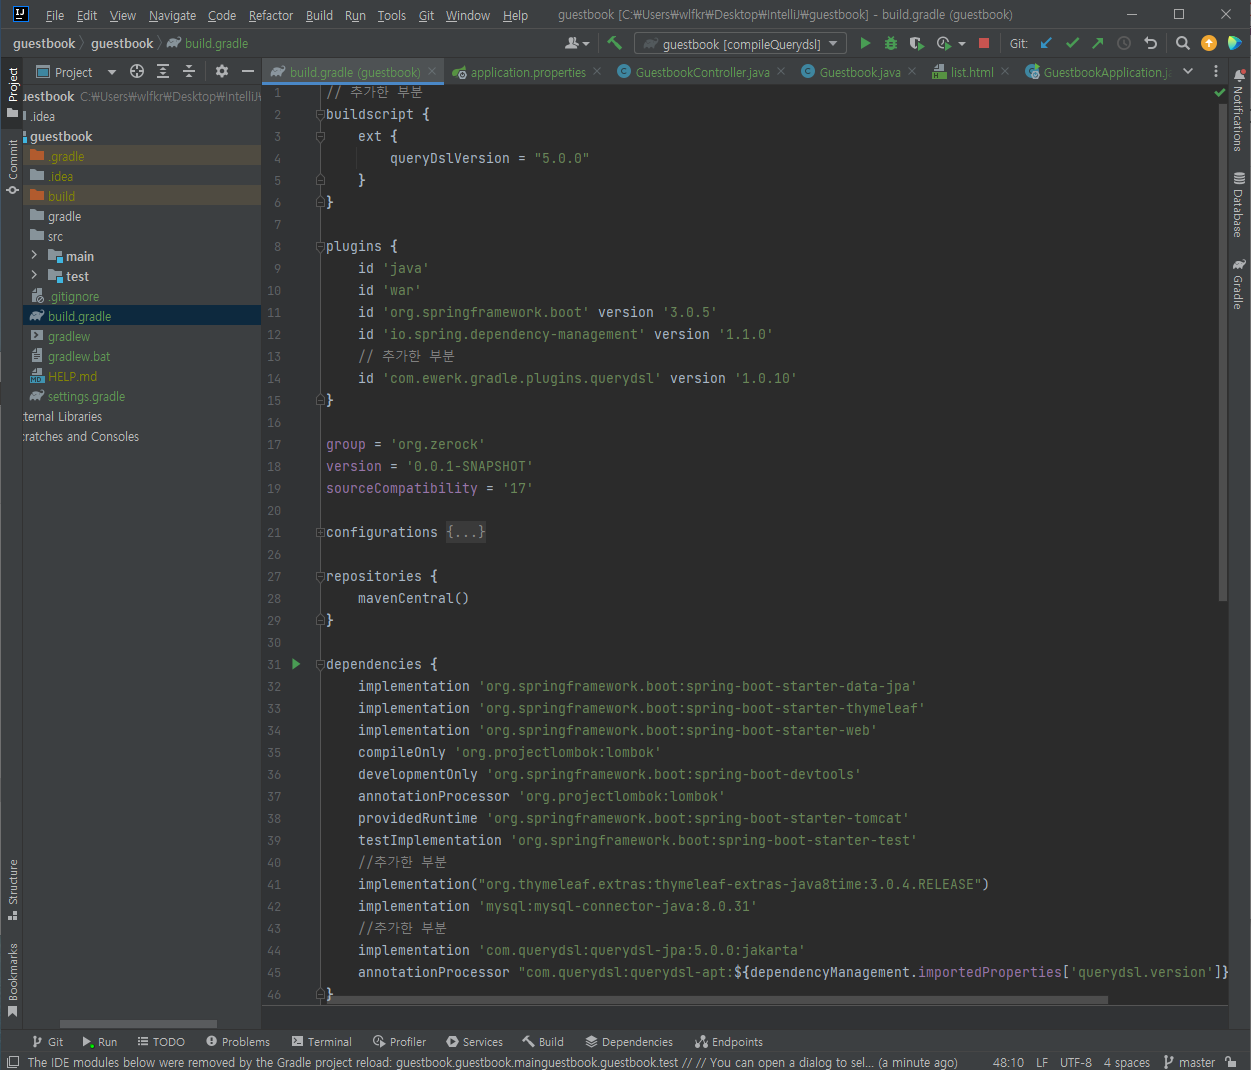
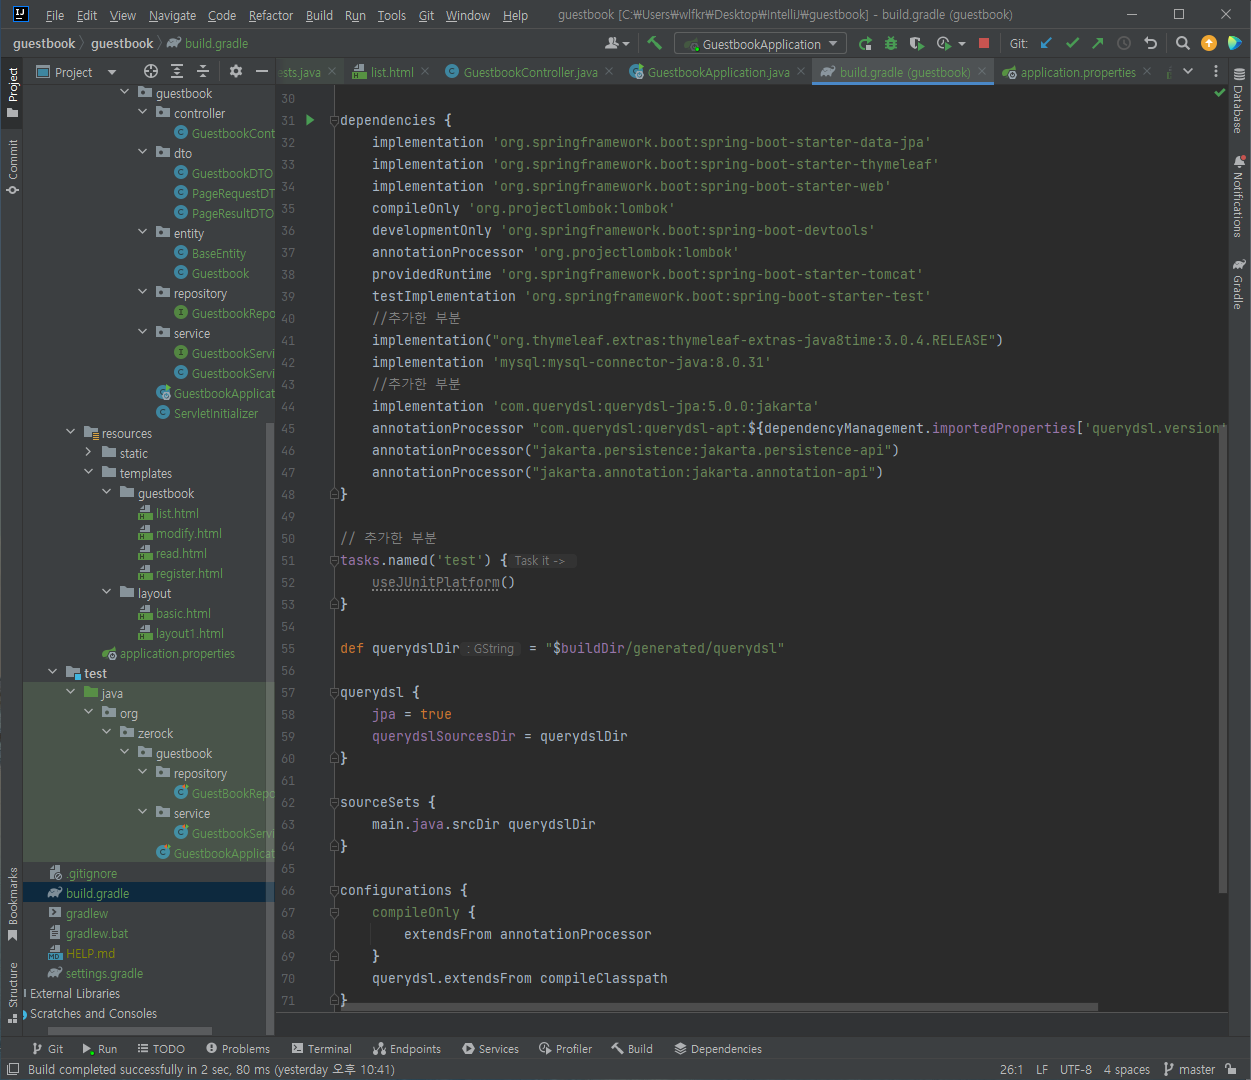
스프링 게시글 수정

diff --git a/_posts/study/spring/2023-03-21-[Spring]_동적_쿼리_처리를_위한_Querydsl_설정.md b/_posts/study/spring/2023-03-21-[Spring]_동적_쿼리_처리를_위한_Querydsl_설정.md
@@ -16,76 +16,69 @@ image:
 * this unordered seed list will be replaced by the toc
 {:toc}
 <br>
-Thymeleaf의 레이아웃은 JSP의 include와 같이 특정 부분을 외부, 내부에서 가져와 포함하는 형태와 특정한 부분을 파라미터로 전달해 내용에 포함하는 형태로 두 가지의 방식이 존재합니다. 먼저 include 형태부터 살펴보겠습니다.
+JPA의 쿼리 메소드 기능과 @Query를 통해 많은 기능을 구현할 수 있지만, 선언할 때 고정된 형태의 값을 가진다는 단점이 존재합니다. 이 때문에 복잡한 조합을 이용하는 경우 동적으로 쿼리를 생성해서 처리할 수 있는 기능이 필요합니다.<br>
+Querydsl은 이러한 상황을 해결할 수 있는 기술입니다.
 
 ---
 <br>
 
-# 1. SampleController 코드 추가 (include 방식)
+# 1. Querydls 사이트
 ---
 <br>
 
 ![1](/assets/img/study_Web/spring/2023-03-21-[Spring]_동적_쿼리_처리를_위한_Querydsl_설정/1.PNG)
 <br>
 
-실습을 위해 SampleController에 위의 그림과 같은 exLayout1()을 추가합니다.<br>
+Querydsl은 다양한 기능을 제공하는데 우리는 이 중 JPA 관련 부분을 적용하려 합니다.<br>
 
-# 2. fragment1.html 작성
+# 2. build.gradle 추가 - 1
 ---
 <br>
 
 ![2](/assets/img/study_Web/spring/2023-03-21-[Spring]_동적_쿼리_처리를_위한_Querydsl_설정/2.PNG)
 <br>
 
-이번에 구현하고자 하는 exLayout.html은 내부적으로 다른 파일에 있는 일부분을 조각처럼 가져와 구성합니다. 이러한 조각이 될 수 있는 fragments 폴더를 작성하고 조각이 될 fragment1.html을 생성한 뒤 위와 같은 내용을 작성합니다.<br>
-th:fragment라는 태그를 통해 표현합니다.<br>
+위의 그림과 같이 주석처리한 부분을 추가로 작성합니다.<br>
+queryDslVersion을 지정해주고 plugins 항목에 querydsl 관련 부분을 추가합니다.
 
-# 3. exLayout1.html 작성
+# 3. build.gradle 추가 - 2
 ---
 <br>
 
 ![3](/assets/img/study_Web/spring/2023-03-21-[Spring]_동적_쿼리_처리를_위한_Querydsl_설정/3.PNG)
 <br>
 
-이제 화면이 될 exLayout1.html을 추가한 뒤 fragment1.html의 조각들을 가져와 사용하는 코드를 작성합니다.<br>
-th:replace, th:insert, th:bolck th:replace를 사용해 fragment1의 조각을 각각 다르게 가져와보겠습니다.<br>
+다음으로 dependencies에 주석처리한 부분을 추가로 작성합니다.<br>
+중간에 잘린 부분은 importedProperties['querydsl.version']}:jakarta" 입니다.<br>
+Querydsl을 위한 gradle의 task를 생성하기 위해 추가적으로 dependencies 밑에 코드를 작성합니다.<br>
+코드 작성을 마치고 build.gradle 파일을 갱신합니다.<br>
 
-
-# 4. exLayout1.html 실행 결과
+# 4. compileQuerydsl 실행
 ---
 <br>
 
 ![4](/assets/img/study_Web/spring/2023-03-21-[Spring]_동적_쿼리_처리를_위한_Querydsl_설정/4.PNG)
 <br>
 
-실행 결과 개발자 도구를 살펴보면 가져온 결과가 다른 것을 확인할 수 있습니다.<br>
-th:insert의 경우 th:replace와 달리 \<div\> 태그 내에 다시 \<div\> 태그가 생성된 것을 확인할 수 있습니다.<br>
+갱신을 마치면 compileQuerydsl이라는 실행 가능한 task가 추가된 것을 확인할 수 있습니다.<br>
+이 task를 실행해 본 뒤 실행 결과로 build 폴더 내에 generated 폴더가 생긴 뒤 QBaseEntity와 QGuestbook가 생성된 것을 확인할 수 있습니다.<br>
 
-# 5. fragment2.html 작성
+
+# 5. QGuestBook 확인
 ---
 <br>
 
 ![5](/assets/img/study_Web/spring/2023-03-21-[Spring]_동적_쿼리_처리를_위한_Querydsl_설정/5.PNG)
 <br>
 
-이번엔 파일의 일부분을 가져오는 것이 아닌 파일의 전체를 가져오는 실습을 해보겠습니다.<br>
-실습을 위해 fragment2.html을 생성한 뒤 위와 같은 코드를 작성합니다.<br>
+생성된 QGuestbook 클래스를 살펴보면 내부적으로 선언된 필드가 모두 변수로 처리되는 것을 확인할 수 있습니다.<br>
+자동으로 생성되는 것이 의미하는건 Q 클래스를 개발자가 건드리지 않는다는 것입니다.<br>
 
-# 6. exLayout1.html 코드 추가
+# 6. QuerydslPredicateExcutor 상속
 ---
 <br>
 
 ![6](/assets/img/study_Web/spring/2023-03-21-[Spring]_동적_쿼리_처리를_위한_Querydsl_설정/6.PNG)
 <br>
 
-exLayout1.html에는 작성된 fragment2.html의 전체를 가져오는 부분을 추가합니다.<br>
-th:replace="~{/fragments/fragment2}"를 통해 fragment2의 전체를 가져옵니다.<br>
-
-# 7. exLayout1.html 실행 결과
----
-<br>
-
-![7](/assets/img/study_Web/spring/2023-03-21-[Spring]_동적_쿼리_처리를_위한_Querydsl_설정/7.PNG)
-<br>
-
-실행 결과는 위의 그림과 같습니다.<br>
+GuestbookRepository 인터페이스에 추가로 QuerydslPredicateExcutor를 상속하게 코드를 작성합니다.<br>
